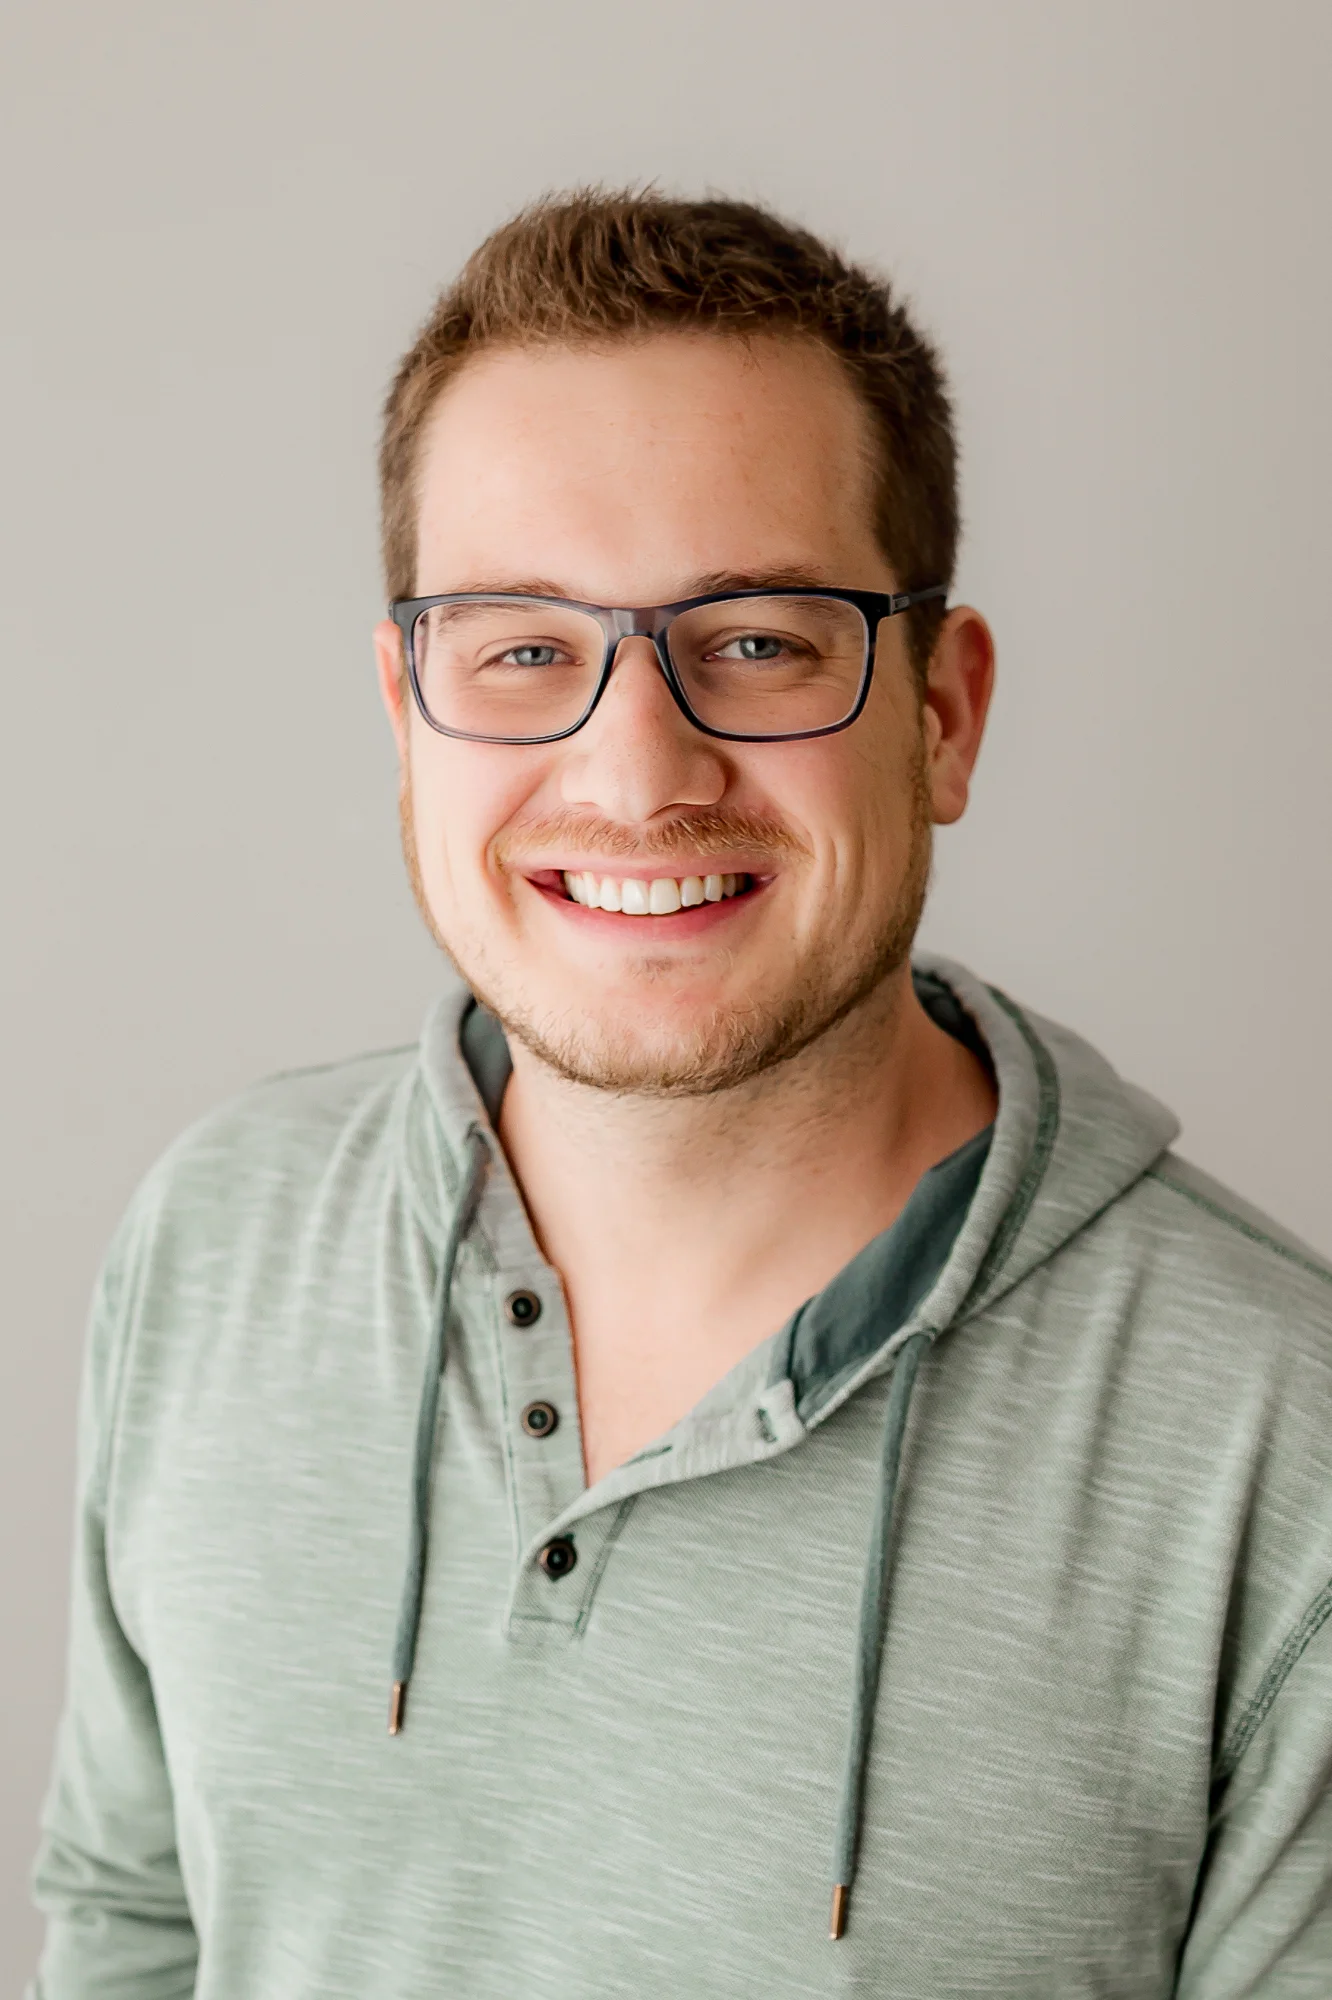
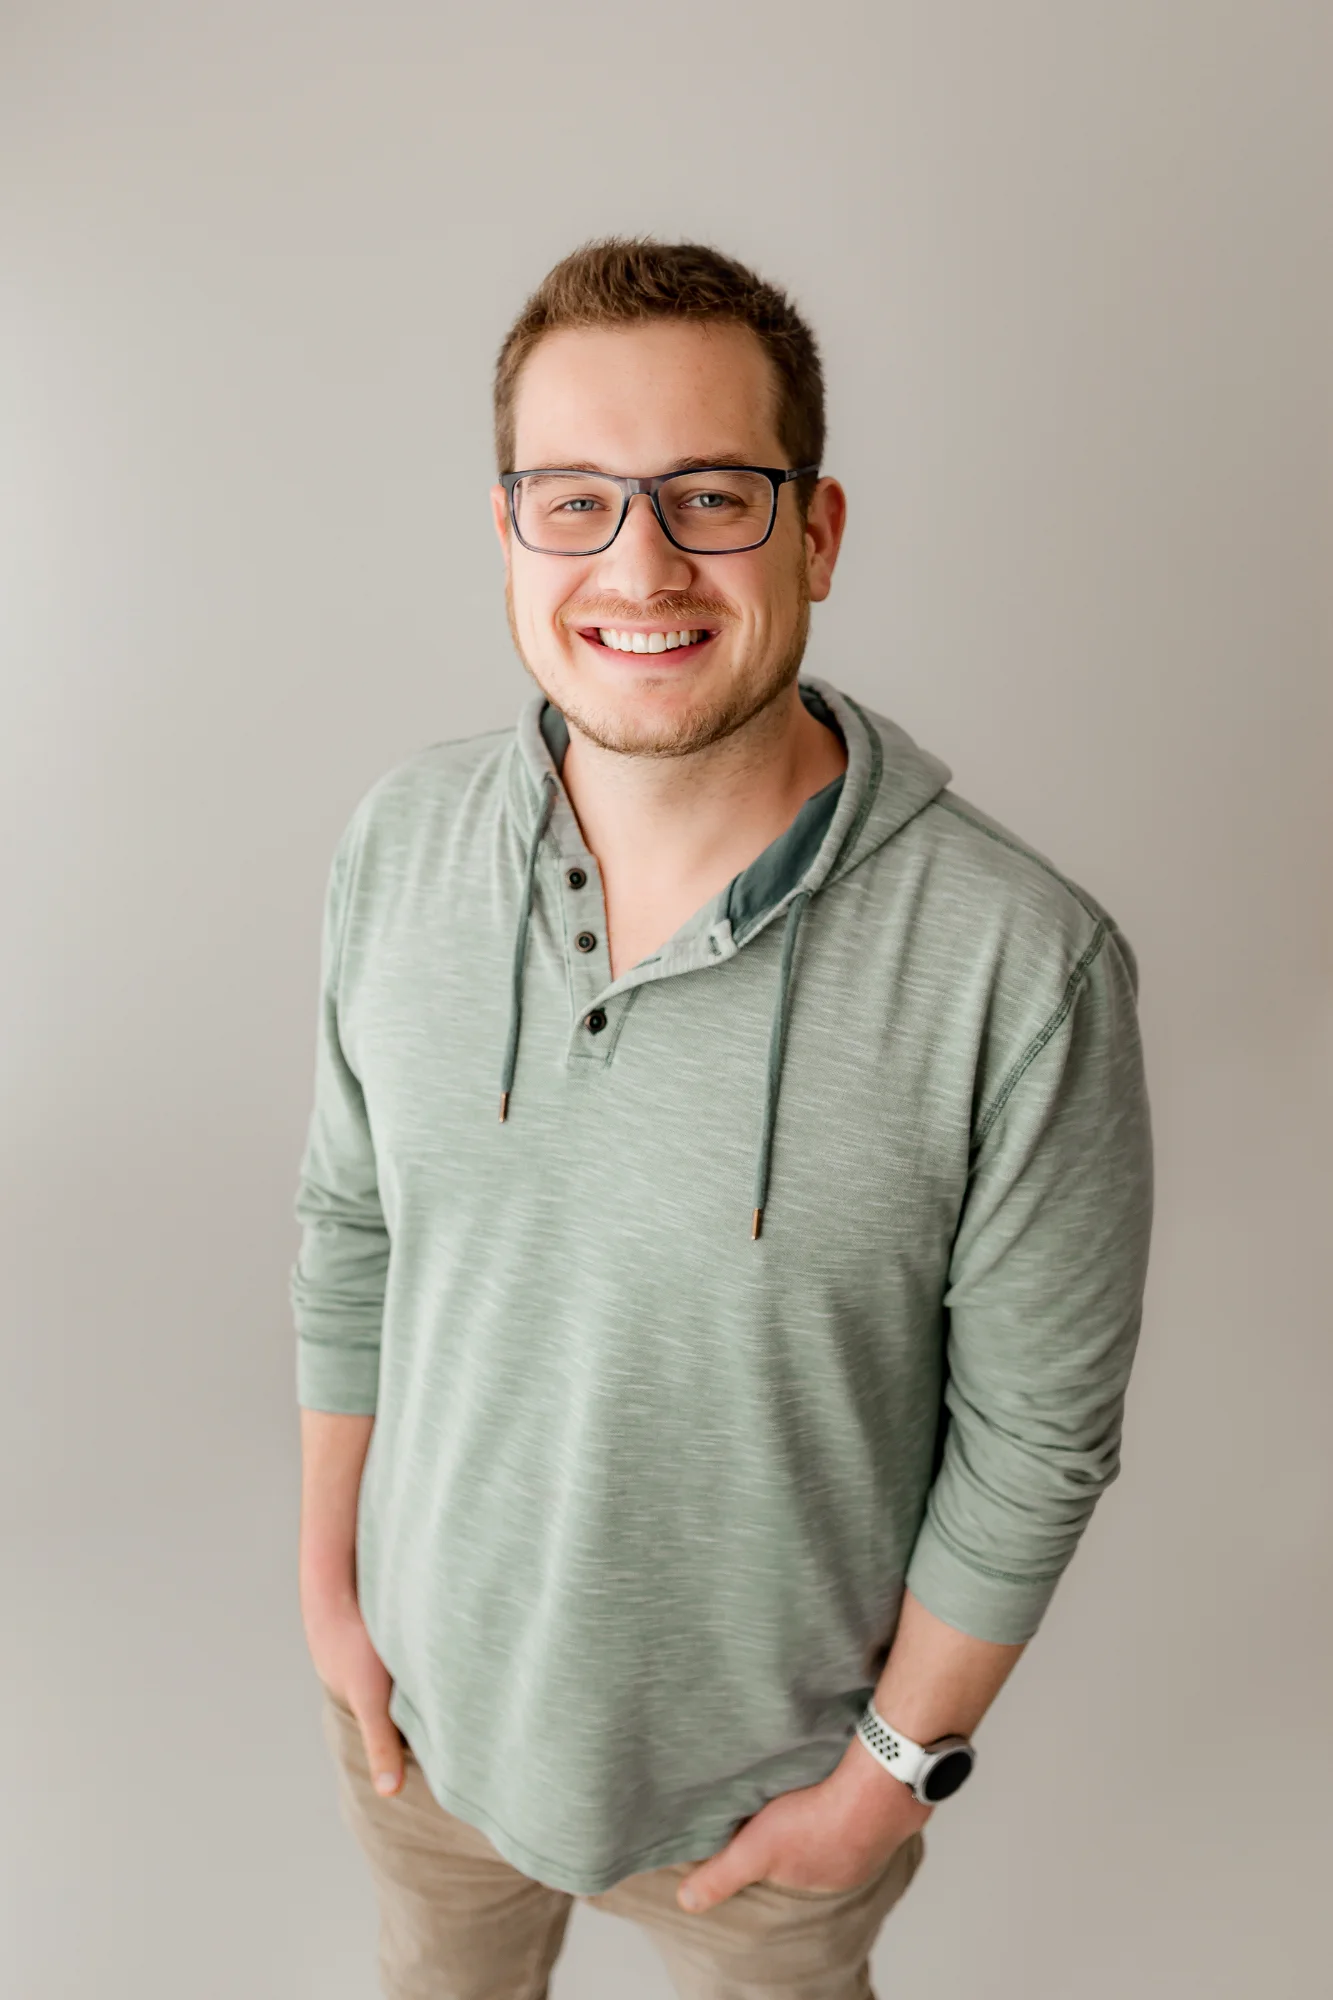
Fix headshot cropping and resolution

diff --git a/index.html b/index.html
@@ -348,6 +348,7 @@
       width: 100%;
       height: 100%;
       object-fit: cover;
+      object-position: center 15%;
     }
 
     .about-text {
@@ -735,8 +736,8 @@
     <div class="container">
       <h2>Ready to find your optimal balance?</h2>
       <p>Let's talk about what's holding your business back.</p>
-      <a href="/cdn-cgi/l/email-protection#85f6e0e4ebc5f5f6ecf5edecabe6ea" class="btn btn-primary">Schedule a Discovery Call</a>
-      <p class="cta-alt">or email <a href="/cdn-cgi/l/email-protection#ef9c8a8e81af9f9c869f8786c18c80"><span class="__cf_email__" data-cfemail="ff8c9a9e91bf8f8c968f9796d19c90">[email&#160;protected]</span></a></p>
+      <a href="/cdn-cgi/l/email-protection#700315111e300003190018195e131f" class="btn btn-primary">Schedule a Discovery Call</a>
+      <p class="cta-alt">or email <a href="/cdn-cgi/l/email-protection#5a293f3b341a2a29332a3233743935"><span class="__cf_email__" data-cfemail="d5a6b0b4bb95a5a6bca5bdbcfbb6ba">[email&#160;protected]</span></a></p>
     </div>
   </section>
 
